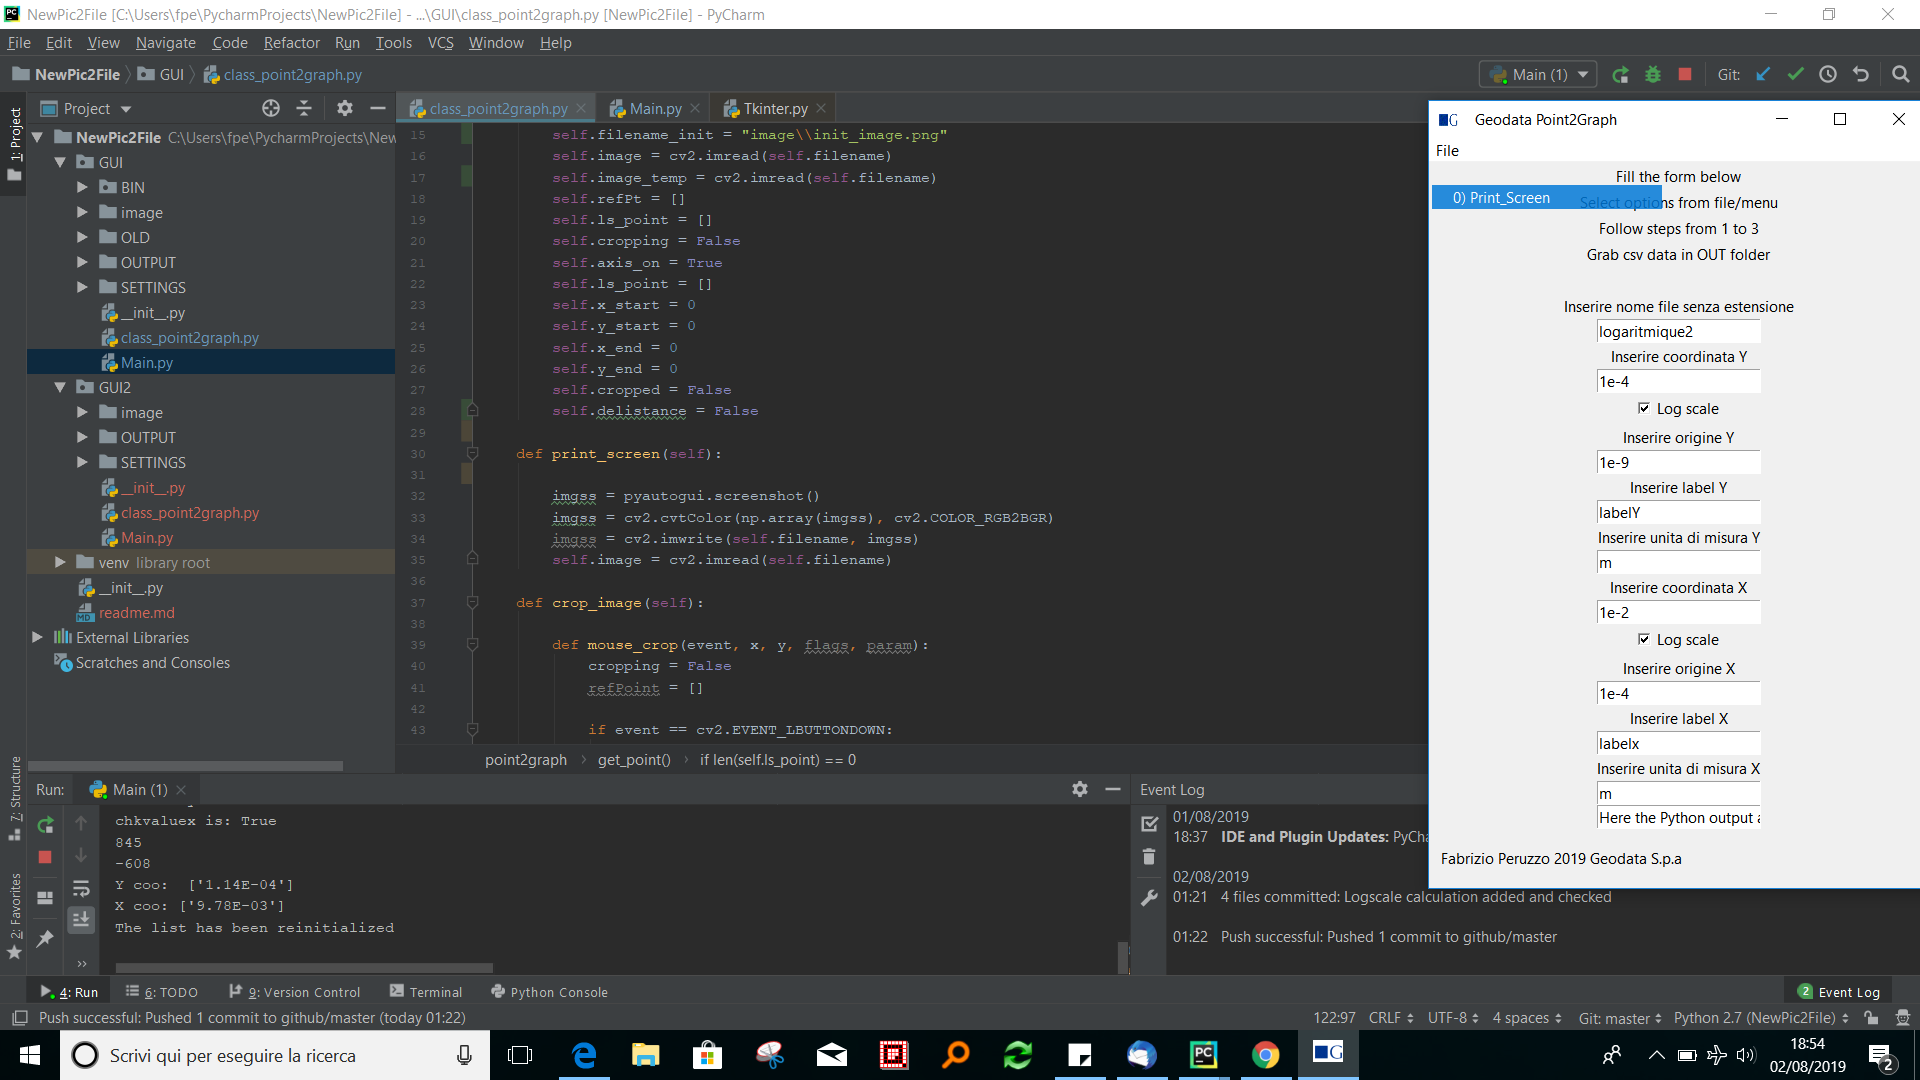
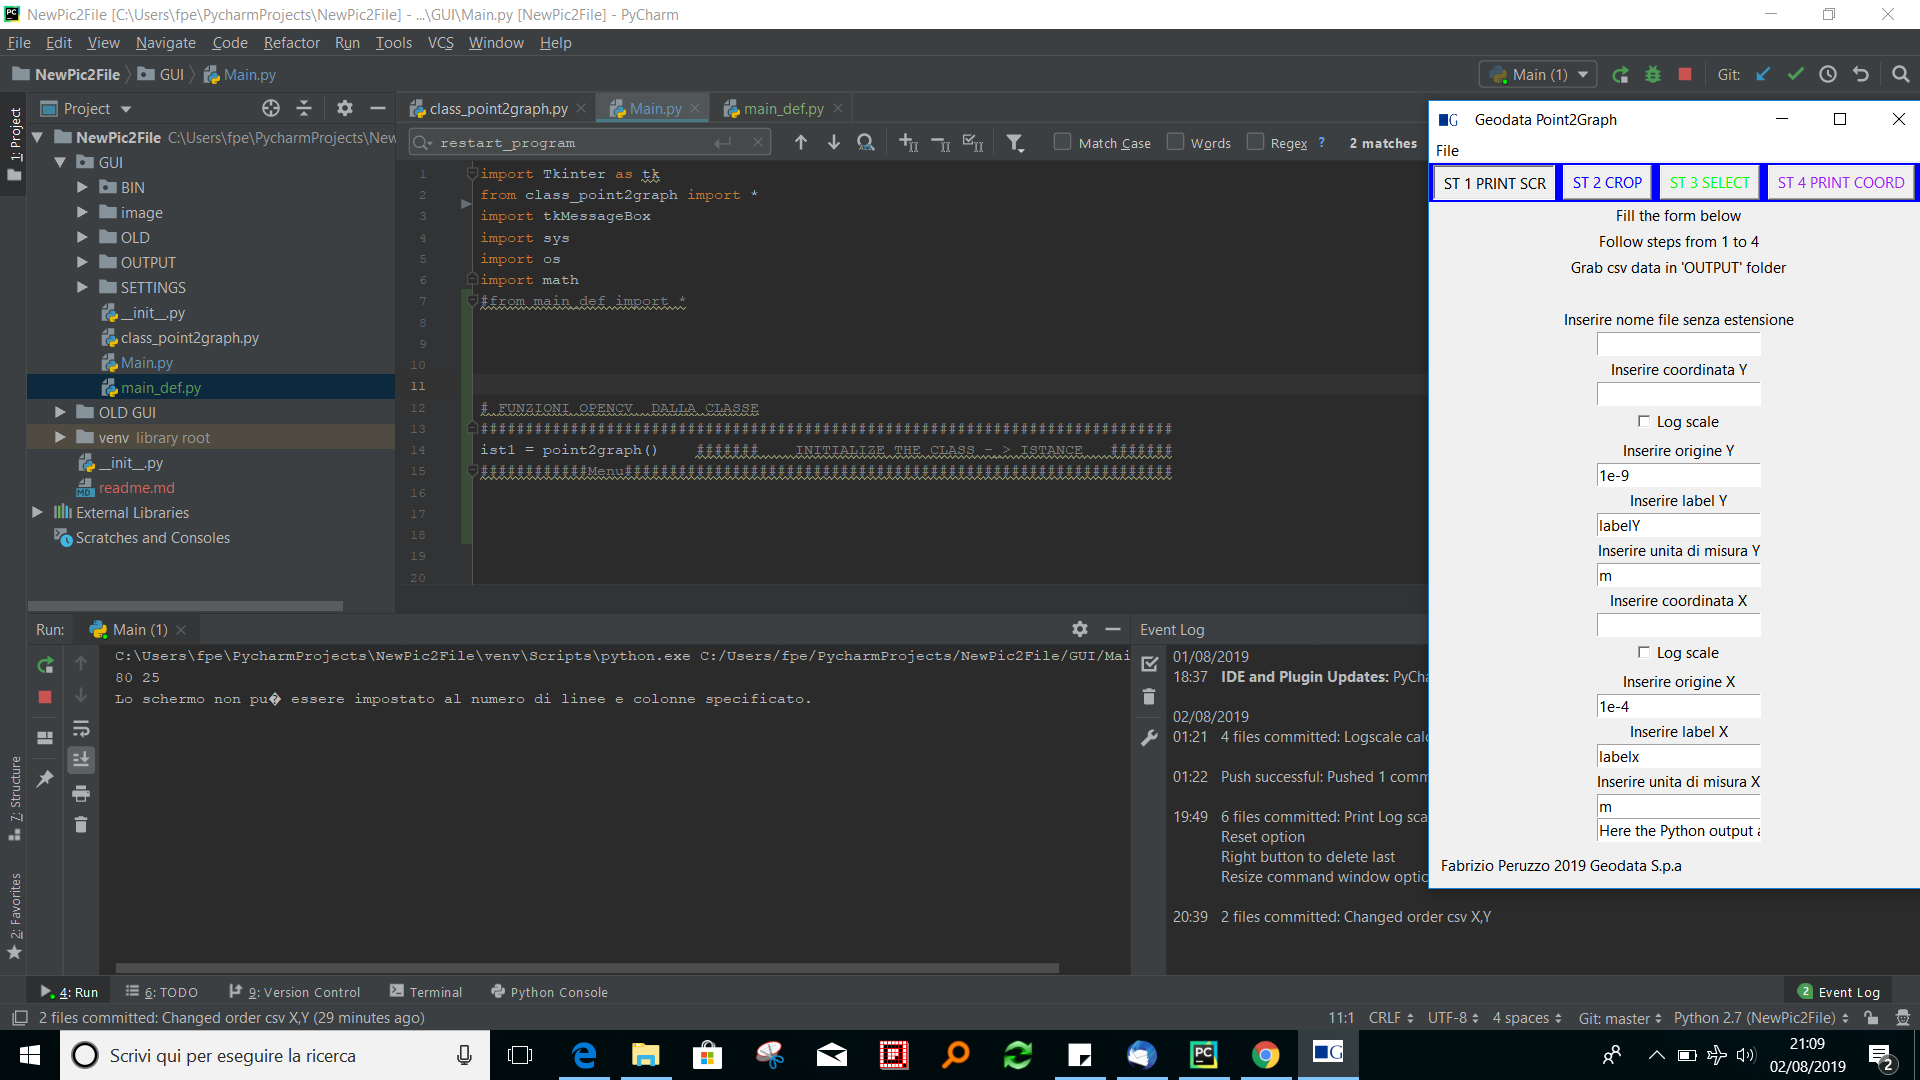
Grafica interface ameliored added button

diff --git a/GUI/main_def.py b/GUI/main_def.py
@@ -1,3 +1,8 @@
+
+###   separate all def in a separate file  ..... to be completed  ####
+
+
+
 import Tkinter as tk
 from class_point2graph import *
 import tkMessageBox
@@ -5,16 +10,6 @@ import sys
 import os
 import math
 #from main_def import *
-
-
-
-
-# FUNZIONI OPENCV  DALLA CLASSE
-#############################################################################
-ist1 = point2graph()    #######    INITIALIZE THE CLASS -_> ISTANCE   #######
-############Menu#############################################################
-
-
 
 
 
@@ -263,263 +258,3 @@ def resize_cmd_win_small():
     print sizex, sizey
     os.system('mode con: cols=50 lines=5')
 
-
-
-
-
-
-
-
-
-
-
-
-
-
-
-
-
-
-
-
-
-
-
-
-#############################################################
-#               INIZIO             CODICE
-#############################################################
-
-# tk= tkinter is the module
-# Tk is the class inside tkinter you dont need arguments
-
-
-resize_cmd_win_small()
-
-root = tk.Tk()
-
-########      TOP FRAME   ######################################################
-
-topframe = tk.Frame(root, bg="blue")
-topframe.pack()
-
-
-button1 = tk.Button(topframe, text=" ST 1 PRINT SCR ", fg="red", command=lambda: ist1.print_screen())
-button2 = tk.Button(topframe, text=" ST 2 CROP ", fg="blue", command=lambda: ist1.crop_image())
-button3 = tk.Button(topframe, text=" ST 3 SELECT ", fg="green", command=lambda: ist1.get_point())
-button4 = tk.Button(topframe, text=" ST 4 PRINT COORD ", fg="purple", command=lambda: coordinates())
-
-button1.pack(side='left', padx=4, pady=2)
-button2.pack(side='left', padx=4, pady=2)
-button3.pack(side='left', padx=4, pady=2)
-button4.pack(side='left', padx=4, pady=2)
-
-topframe.pack(side="top", fill="x")
-
-
-
-root.title("   Geodata Point2Graph  ")
-screenwidth = root.winfo_screenwidth()
-winwidth = 500
-winheight = 750
-distance = screenwidth - winwidth
-# porta al di sotto dell'angolo di 100 pixel
-root.geometry(str(winwidth) + 'x' + str(winheight) +
-              '+' + str(distance) + '+100')
-
-curr_dir = os.path.dirname(__file__)
-
-img_path = curr_dir + "/image/gd_small.gif"
-
-photo = tk.PhotoImage(file=img_path)
-root.tk.call("wm", "iconphoto", root._w, photo)
-
-w = tk.Label(root, text="Fill the form below")
-#w1 = tk.Label(root, text="Select options from file/menu ")
-w2 = tk.Label(root, text="Follow steps from 1 to 4")
-w3 = tk.Label(root, text="Grab csv data in 'OUTPUT' folder")
-w4 = tk.Label(root, text="              ")
-
-w.pack()
-#w1.pack()
-w2.pack()
-w3.pack()
-w4.pack()
-
-# ENTRY LABEL
-
-ls_lbl_in = read_label()
-
-lab6 = tk.Label(root, text="Inserire nome file senza estensione")
-lab6.pack()
-ent6 = tk.Entry(root)
-ent6.pack()
-
-
-
-
-
-
-
-
-
-########               LEFT FRAME             ##############################
-
-leftframe = tk.Frame(root)
-
-lab = tk.Label(leftframe, text="Inserire coordinata Y")
-lab.pack()
-ent = tk.Entry(leftframe)
-ent.pack()
-
-chkValueY = tk.BooleanVar()
-#chkValueY = False
-chb1 = tk.Checkbutton(leftframe, text="Log scale", variable=chkValueY)
-chb1.pack()
-
-
-lab7 = tk.Label(leftframe, text="Inserire origine Y")
-lab7.pack()
-ent7 = tk.Entry(leftframe)
-ent7.insert(0, ls_lbl_in[5])
-ent7.pack()
-
-lab2 = tk.Label(leftframe, text="Inserire label Y")
-lab2.pack()
-ent2 = tk.Entry(leftframe)
-ent2.insert(0, ls_lbl_in[0])
-ent2.pack()
-
-lab4 = tk.Label(leftframe, text="Inserire unita di misura Y")
-lab4.pack()
-ent4 = tk.Entry(leftframe)
-ent4.insert(0, ls_lbl_in[1])
-ent4.pack()
-
-
-
-leftframe.pack(side="left", padx = 5)
-
-
-
-
-
-
-
-
-
-
-
-
-
-#############        RIGHT    FRAME      ********************************
-
-
-rightframe = tk.Frame(root)
-
-lab1 = tk.Label(rightframe, text="Inserire coordinata X")
-lab1.pack()
-ent1 = tk.Entry(rightframe)
-ent1.pack()
-
-chkValueX = tk.BooleanVar()
-#chkValueX = False
-chb2 = tk.Checkbutton(rightframe, text="Log scale", var=chkValueX)
-chb2.pack()
-
-lab8 = tk.Label(rightframe, text="Inserire origine X")
-lab8.pack()
-ent8 = tk.Entry(rightframe)
-ent8.insert(0, ls_lbl_in[4])
-ent8.pack()
-
-lab3 = tk.Label(rightframe, text="Inserire label X")
-lab3.pack()
-ent3 = tk.Entry(rightframe)
-ent3.insert(0, ls_lbl_in[2])
-ent3.pack()
-
-lab5 = tk.Label(rightframe, text="Inserire unita di misura X")
-lab5.pack()
-ent5 = tk.Entry(rightframe)
-ent5.insert(0, ls_lbl_in[3])
-ent5.pack()
-
-rightframe.pack(side="right")
-
-
-
-
-
-
-
-
-
-
-#############        BOTTOM    FRAME      ********************************
-
-bottomframe = tk.Frame(root)
-
-
-ent9 = tk.Entry(bottomframe)
-ent9.insert(0, 'Here the Python output are shown')
-ent9.pack()
-
-
-w5 = tk.Label(bottomframe,
-              justify=tk.LEFT,
-              padx=10,
-              text="Fabrizio Peruzzo 2019 Geodata S.p.a").pack(side="left")
-
-
-
-bottomframe.pack(side="bottom", padx = 5 )
-
-
-
-
-
-
-
-
-
-
-
-#########           menubar  ****************************
-
-
-
-menubar = tk.Menu(root)
-filemenu = tk.Menu(menubar, tearoff=1)
-menubar.add_cascade(label="File",  menu=filemenu)
-
-filemenu.add_cascade(label="1) Print_Screen", command=lambda: ist1.print_screen())
-filemenu.add_cascade(label="2) Crop_Image", command=lambda: ist1.crop_image())
-filemenu.add_cascade(label="3) Pic_Orig_X_Y_Points", command=lambda: ist1.get_point())
-entry = print_entry
-#filemenu.add_cascade(label="3) Print_Entry", command=lambda: entry()) donna inutile
-filemenu.add_cascade(label="4) Print_Coordinate", command=lambda: coordinates())  # in automatico scrive il file
-
-filemenu.add_separator()
-filemenu.add_cascade(label=" Resize_cmd_window_BIG",
-                     command=lambda: resize_cmd_win())  # in automatico scrive il file
-filemenu.add_cascade(label=" Resize_cmd_window_SMALL",
-                     command=lambda: resize_cmd_win_small())  # in automatico scrive il file
-
-filemenu.add_separator()
-filemenu.add_cascade(label="Reset Data", command=lambda: ist1.reinitialize())
-#filemenu.add_cascade(label="Restart", command=lambda: restart_program()) non funziona bene quando vado a riprendere i punti
-filemenu.add_cascade(label="Exit", command=root.destroy)
-
-root.config(menu=menubar)
-
-
-
-
-
-
-
-
-
-
-root.mainloop()
